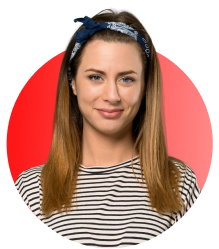
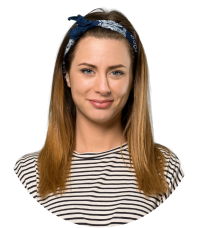
added graphics in section team and section reviews, fixed bugs

diff --git a/src/components/helpers/ReviewsData.js b/src/components/helpers/ReviewsData.js
@@ -1,40 +1,36 @@
-import clientOne from './../../images/reviews/client-1.jpg'
+import clientOne from './../../images/reviews/client-1.png'
+import clientTwo from './../../images/reviews/client-2.png'
+import clientThree from './../../images/reviews/client-3.png'
+import clientFour from './../../images/reviews/client-4.png'
 
 const clients = [
   {
     idx: '1',
     img: clientOne,
-    name: 'Rowhan Marlin',
+    name: 'Сухарев Александр',
     review:
-      'Learning is a Global training provider based across the UK that specialises in accrediated and bespoke training courses.',
+      'Я очень доволен работой компании. С самого начала проекта команда проявила профессионализм и пунктуальность. Они внимательно изучили наши требования и потребности, помогли написать ТЗ, а также предложили свои решения и идеи по улучшению приложения. Мы благодарны им за инициативность, ответственность и профессионализм. В результате мы получили продукт, который превзошел наши ожидания.',
   },
   {
     idx: '2',
-    img: clientOne,
-    name: 'Rowhan Marlin',
+    img: clientTwo,
+    name: 'Николаев Иван',
     review:
-      'Learning is a Global training provider based across the UK that specialises in accrediated and bespoke training courses.',
+      'Отличная работа! Мобильное приложение работает быстро и плавно, имеет удобный и интуитивно понятный интерфейс для наших сотрудников и клиентов. Я бы рекомендовал эту компанию всем, кто ищет надежного и профессионального партнера для разработки мобильных приложений.',
   },
   {
     idx: '3',
-    img: clientOne,
-    name: 'Rowhan Marlin',
+    img: clientThree,
+    name: 'Степанов Матвей',
     review:
-      'Learning is a Global training provider based across the UK that specialises in accrediated and bespoke training courses.',
+      'Большое спасибо команде. Мы реализовали сложный проект. Это наш первый опыт разработки мобильных приложений, но с поддержкой команды No-Code Production мы смогли реализовать все свои идеи. Отдельное спасибо дизайнеру Екатерине и Данилу, которые помогли превратить наши фантазии в реальность, знаем, как это было не просто местами.',
   },
   {
     idx: '4',
-    img: clientOne,
-    name: 'Rowhan Marlin',
+    img: clientFour,
+    name: 'Титова Анастасия',
     review:
-      'Learning is a Global training provider based across the UK that specialises in accrediated and bespoke training courses.',
-  },
-  {
-    idx: '5',
-    img: clientOne,
-    name: 'Rowhan Marlin',
-    review:
-      'Learning is a Global training provider based across the UK that specialises in accrediated and bespoke training courses.',
+      'Я очень доволен работой компании. С самого начала проекта команда проявила профессионализм и пунктуальность. Они внимательно изучили наши требования и потребности, помогли написать ТЗ, а также предложили свои решения и идеи по улучшению приложения. Мы благодарны им за инициативность, ответственность и профессионализм. В результате мы получили продукт, который превзошел наши ожидания.',
   },
 ]
 

diff --git a/src/components/helpers/TeamData.js b/src/components/helpers/TeamData.js
@@ -1,8 +1,13 @@
 import peopleImg from './../../images/team/card-img.png'
+import peopleImgTwo from './../../images/team/card-img-2.png'
+import peopleImgThree from './../../images/team/card-img-3.png'
+import peopleImgFour from './../../images/team/card-img-4.png'
+import peopleImgFive from './../../images/team/card-img-5.png'
 
 const membersTeam = [
   {
     idx: 1,
+    id: 'img-one',
     img: peopleImg,
     name: 'Мария',
     proffession: 'Co-Founder, CEO, продакт-менеджер',
@@ -11,35 +16,36 @@ const membersTeam = [
   },
   {
     idx: 2,
-    img: peopleImg,
-    name: 'Мария',
-    proffession: 'Co-Founder, CEO, продакт-менеджер',
+    id: 'img-two',
+    img: peopleImgTwo,
+    name: 'Святослав',
+    proffession: 'Co-Founder, СТО,  Full-Stack разработчик',
     about:
-      'Защищает интересы клиентов и переводит язык программистов на язык бизнеса',
+      'Превращаю клиентские идеи в готовые продукты и отвечаю за их качество',
   },
   {
     idx: 3,
-    img: peopleImg,
-    name: 'Мария',
-    proffession: 'Co-Founder, CEO, продакт-менеджер',
-    about:
-      'Защищает интересы клиентов и переводит язык программистов на язык бизнеса',
+    id: 'img-three',
+    img: peopleImgThree,
+    name: 'Павел',
+    proffession: 'Full-Stack разработчик',
+    about: 'Создаю приложения, веб-сервисы и предвосхищая ожидания клиентов',
   },
   {
     idx: 4,
-    img: peopleImg,
-    name: 'Мария',
-    proffession: 'Co-Founder, CEO, продакт-менеджер',
-    about:
-      'Защищает интересы клиентов и переводит язык программистов на язык бизнеса',
+    id: 'img-four',
+    img: peopleImgFour,
+    name: 'Эмма',
+    proffession: 'Дизайнер-аналитик',
+    about: 'Творю из ничего дизайны, которые влюбляют в себя',
   },
   {
     idx: 5,
-    img: peopleImg,
-    name: 'Мария',
-    proffession: 'Co-Founder, CEO, продакт-менеджер',
-    about:
-      'Защищает интересы клиентов и переводит язык программистов на язык бизнеса',
+    id: 'img-five',
+    img: peopleImgFive,
+    name: 'Матвей',
+    proffession: 'QA Engineer',
+    about: 'Ищу ошибки, чтобы их не нашли вы или ваши пользователи',
   },
 ]
 

diff --git a/src/styles/sections/team.scss b/src/styles/sections/team.scss
@@ -66,6 +66,12 @@
         opacity: 1;
       }
 
+      &__circle {
+        &::before {
+          background-color: rgba(255, 0, 0, 0.8);
+        }
+      }
+
       &__circle-text {
         color: red;
       }
@@ -82,14 +88,27 @@
     display: flex;
     justify-content: center;
     align-items: center;
+
+    &::before {
+      content: '';
+      position: absolute;
+      display: block;
+      top: 36px;
+      left: 33.8px;
+      width: 189px;
+      height: 189px;
+      background-color: #ffff;
+      border-radius: 50%;
+      transition: all 0.3s;
+    }
   }
   // .team-card__circle-img-box
   &__circle-img-box {
     position: absolute;
-    top: -5px;
+    top: 0;
+
     width: 200px;
     height: 228px;
-    // background-image: url('../../images/contact/card-img.png');
     background-size: cover;
     border-radius: 50%;
     z-index: 100;
@@ -149,4 +168,21 @@
   // .team-card__link-icon
   &__link-icon {
   }
+}
+
+#img-two {
+  top: 12px;
+  left: 48px;
+}
+#img-three {
+  top: 21px;
+  left: 49px;
+}
+#img-four {
+  top: 11.5px;
+  left: 49px;
+}
+#img-five {
+  top: 9.5px;
+  left: 49px;
 }

diff --git a/src/styles/sections/reviews.scss b/src/styles/sections/reviews.scss
@@ -71,14 +71,24 @@
   box-sizing: border-box;
   max-width: 730px;
   width: 100%;
-  // min-height: 500px;
-  padding: 61px 118px 51px;
+  min-height: 520px;
+  padding: 61px 20px 51px;
   background: white;
   box-shadow: 0px 26px 49px rgba(0, 0, 0, 0.4);
   border-radius: 12px;
 
+  @include media-1 {
+    min-height: 551px;
+  }
+
   @include media-2 {
+    min-height: 640px;
+
     padding: 40px 15px 40px;
+  }
+
+  @include media-3 {
+    min-height: 460px;
   }
 
   // .reviews-card__img-box
@@ -103,7 +113,7 @@
       content: '';
       position: absolute;
       top: -50px;
-      left: -60px;
+      left: 30px;
       width: 92px;
       height: 71px;
       background-image: url('../../images/icons/quotes.png');

diff --git a/src/components/team-components/TeamCard.jsx b/src/components/team-components/TeamCard.jsx
@@ -1,7 +1,7 @@
 import { useRef, useLayoutEffect } from 'react'
 import telegramIcon from './../../images/icons/telegram.png'
 
-const TeamCard = ({ img, name, proffession, about }) => {
+const TeamCard = ({ img, id, name, proffession, about }) => {
   const teamCartImgText = useRef()
 
   useLayoutEffect(() => {
@@ -18,7 +18,7 @@ const TeamCard = ({ img, name, proffession, about }) => {
   return (
     <div className="team-card">
       <div className="team-card__circle">
-        <div className="team-card__circle-img-box">
+        <div className="team-card__circle-img-box" id={id}>
           <img src={img} alt="" />
         </div>
         <div className="team-card__circle-text">

diff --git a/src/components/sections/Team.jsx b/src/components/sections/Team.jsx
@@ -50,6 +50,7 @@ const Team = () => {
                 <SwiperSlide key={card.idx}>
                   <TeamCard
                     img={card.img}
+                    id={card.id}
                     name={card.name}
                     proffession={card.proffession}
                     about={card.about}
